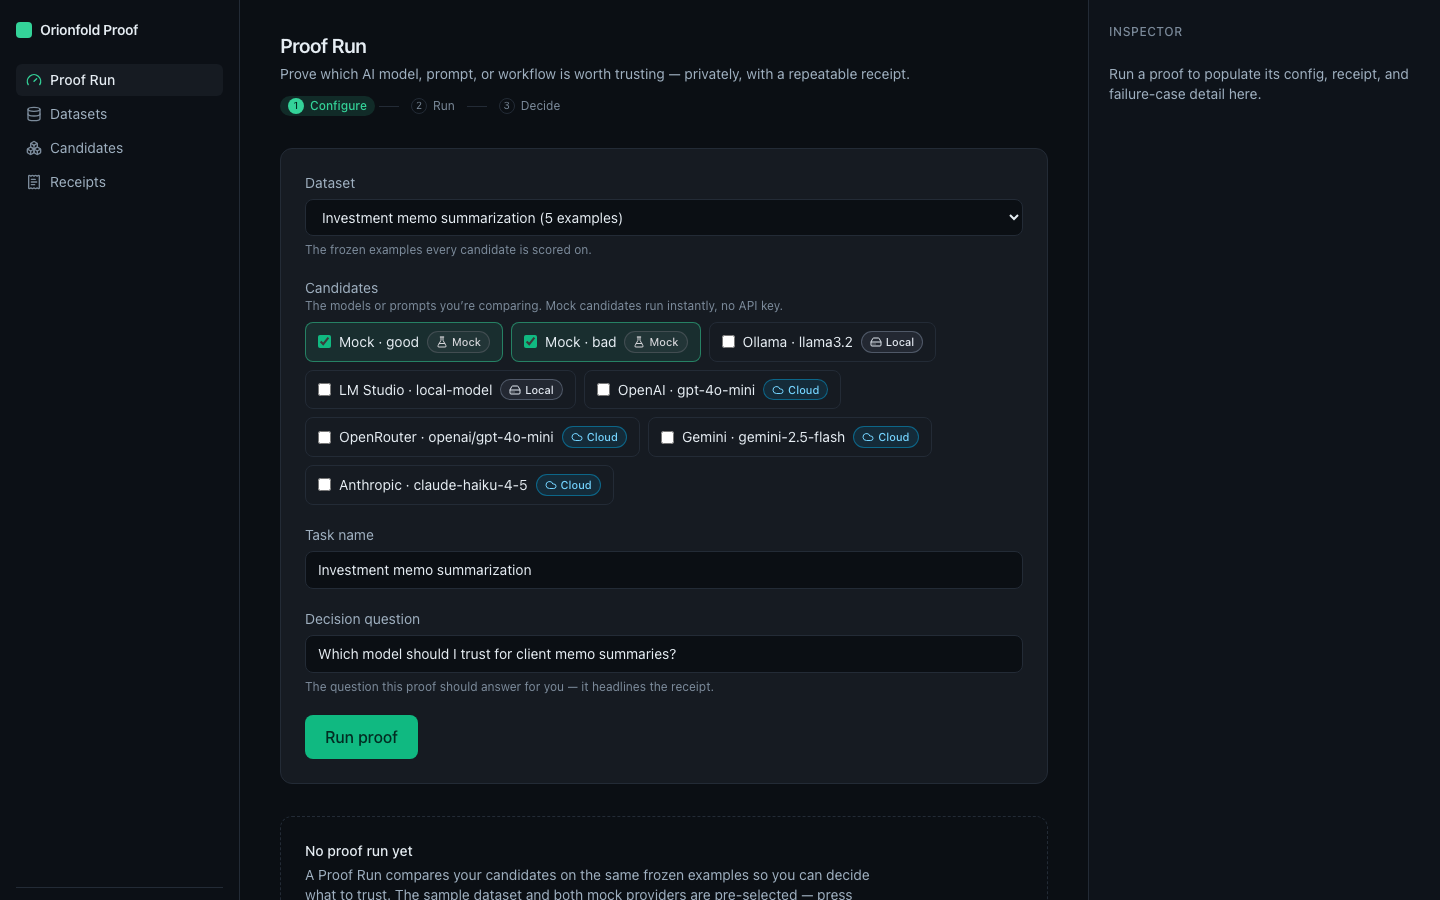
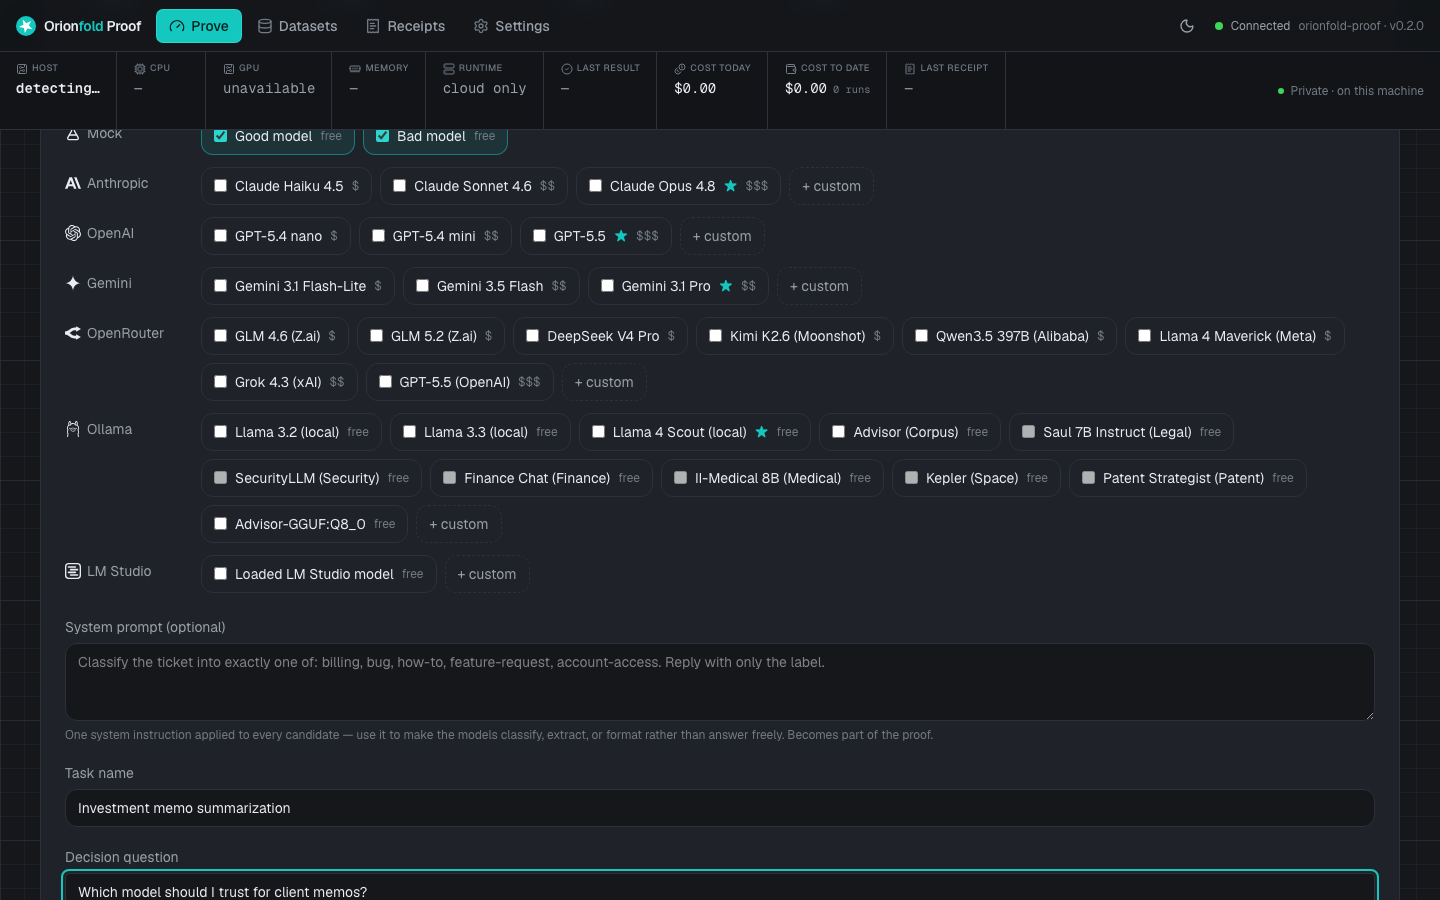
docs: refresh screenshots + README hero for the 0.2.0 Arena cockpit
The README hero (the live PyPI long-description image) and the whole
samples/screenshots/ set predated the Arena-shape redesign — they showed the
old three-column layout that 0.2.0 replaced. Recaptured the full set against
the 0.2.0 embedded build (top app bar + always-on telemetry rail + bento
Receipts + tabbed L3 detail) via a new CAPTURE=1-gated Playwright spec, and
repointed the README hero at the new Prove-result still with fresh alt text.
Also corrects the README's stale "schema version (currently v3)" → v12.

New set: rail-prove-result (hero) · cockpit-arena-populated (full page) ·
stream-configure · rail-datasets · rail-receipts · receipt-detail-l3 ·
rail-settings. Removed the superseded design-system-*/rail-candidates/
real-provider/stream-decide/stream-progress captures. Rewrote the screenshot
index. The capture spec skips in the default e2e run (17 passed, 1 skipped).

PyPI's long-description re-renders on the next upload, so this rides the next
release; the GitHub README shows the new hero immediately. uv.lock carries the
0.2.0 bump.

diff --git a/e2e/playwright/capture-screenshots.spec.ts b/e2e/playwright/capture-screenshots.spec.ts
@@ -1,0 +1,67 @@
+/**
+ * Publish-grade screenshot capture for samples/screenshots/ (the README hero + the rail set).
+ *
+ * NOT a test — a deterministic capture run against the embedded build, gated behind CAPTURE=1 so
+ * it never runs in the normal e2e suite. Reproduces the keyless Sandbox flow (investment-memo +
+ * the two mock candidates) the README has always shown, but on the 0.2.0 Arena layout (top app bar
+ * + always-on telemetry rail + bento Receipts). Dark theme, 1440-wide viewport to match the
+ * existing assets (hero = full-page, the rest = 1440x900 viewport).
+ *
+ *   CAPTURE=1 pnpm playwright test capture-screenshots.spec.ts --project=chromium
+ */
+import { test } from "@playwright/test";
+
+const OUT = "../samples/screenshots";
+const shot = process.env.CAPTURE === "1";
+
+test.skip(!shot, "capture-only; run with CAPTURE=1");
+test.use({ viewport: { width: 1440, height: 900 }, colorScheme: "dark" });
+
+test("capture: Arena cockpit screenshot set (0.2.0)", async ({ page }) => {
+  await page.request.put("/api/settings", { data: { sandbox_enabled: true } });
+  await page.goto("/");
+  await page.getByRole("heading", { name: "Orionfold Proof" }).waitFor();
+
+  // ── Prove: configure (the empty setup canvas + rail) ──────────────────────────────────────
+  const dataset = page.getByLabel("Dataset");
+  await dataset.waitFor({ state: "visible", timeout: 30_000 });
+  await dataset.selectOption("investment-memo-summarization");
+  await page.getByLabel("Decision question").fill("Which model should I trust for client memos?");
+  await page.waitForTimeout(400);
+  await page.screenshot({ path: `${OUT}/stream-configure.png` });
+
+  // ── Prove: run → populated results (the hero) ─────────────────────────────────────────────
+  await page.getByRole("button", { name: /Run proof/ }).click();
+  await page.getByRole("region", { name: "Leaderboard" }).waitFor({ timeout: 30_000 });
+  await page.waitForTimeout(800); // let the scatter + ledger settle
+  // Hero = full-page so the verdict band + leaderboard + cost-vs-quality all land in one image.
+  await page.screenshot({ path: `${OUT}/cockpit-arena-populated.png`, fullPage: true });
+  // Viewport-height variant: app bar + rail + verdict above the fold (the rail "result" cells live).
+  await page.evaluate(() => window.scrollTo(0, 0));
+  await page.waitForTimeout(200);
+  await page.screenshot({ path: `${OUT}/rail-prove-result.png` });
+
+  // ── Datasets screen (rail + bento) ────────────────────────────────────────────────────────
+  await page.getByRole("button", { name: "Datasets" }).click();
+  await page.waitForTimeout(500);
+  await page.screenshot({ path: `${OUT}/rail-datasets.png` });
+
+  // ── Receipts screen (bento masthead + Runs table) ─────────────────────────────────────────
+  await page.getByRole("button", { name: "Receipts" }).click();
+  await page.waitForTimeout(500);
+  await page.screenshot({ path: `${OUT}/rail-receipts.png` });
+
+  // ── L3 receipt detail (the tabbed artifact) ───────────────────────────────────────────────
+  const openRow = page.getByRole("button", { name: /^Open Which model should I trust/ }).first();
+  if (await openRow.count()) {
+    await openRow.click();
+    await page.getByTitle("Proof Receipt preview").waitFor({ timeout: 15_000 });
+    await page.waitForTimeout(500);
+    await page.screenshot({ path: `${OUT}/receipt-detail-l3.png` });
+  }
+
+  // ── Settings bento ────────────────────────────────────────────────────────────────────────
+  await page.getByRole("button", { name: "Settings" }).click();
+  await page.waitForTimeout(500);
+  await page.screenshot({ path: `${OUT}/rail-settings.png` });
+});

diff --git a/samples/screenshots/README.md b/samples/screenshots/README.md
@@ -1,21 +1,28 @@
 # Sample screenshots
 
-- **`design-system-empty.png`** — the three-pane cockpit at rest (empty state): quiet left
-  rail (Proof Run active; Datasets/Candidates/Receipts marked _soon_), the main workspace with
-  the setup card and a guided "No proof run yet" empty state, and the right inspector awaiting a
-  run. Keyless mock pair pre-selected.
-- **`design-system-populated.png`** — after a keyless mock run: the decision → recommended
-  winner band, the leaderboard, and the failure-case list in the main workspace, with run
-  config, the Proof Receipt exports, and config hash in the right inspector.
-- **`design-system-inspector.png`** — the right inspector with a failure case selected
-  (input / expected / output detail). No key material appears anywhere.
-- **`real-provider-leaderboard.png`** — the cockpit after a real proof run comparing the two
-  deterministic mocks against a live **OpenRouter** cloud candidate
-  (`openai/gpt-4o-mini`). Shows the full loop: candidate selection (local + cloud), the
-  leaderboard (quality, latency, estimated cost, privacy, failures, recommendation), failure
-  cases, and the Proof Receipt export controls. Captured against the embedded build via
-  `orionfold up`. No key material appears anywhere in the run or receipt.
+Captured against the embedded build on the 0.2.0 **Arena-shape cockpit** — a compact top app bar
+(Prove · Datasets · Receipts · Settings), a full-width always-on **telemetry rail** (host CPU / GPU /
+memory · runtime · last result · cost · last receipt), and a full-width canvas. Dark theme, keyless
+Sandbox run (the bundled investment-memo demo on the two deterministic mock candidates). No key
+material appears anywhere in any run or receipt.
 
-Note: a real model legitimately scores `pass=0` here — the bundled rubric is tuned for the
-mock demo (similarity ≥ 0.8). The screenshot proves the **integration and the receipt**, not
-a given model's rubric score. See [`../../docs/demo-script.md`](../../docs/demo-script.md).
+- **`rail-prove-result.png`** — the README hero: the Prove canvas after a keyless mock run, with the
+  telemetry rail showing a live `5/5` last result, the dataset + decision-recipe panel, and the
+  candidate picker. The whole instrument in one frame.
+- **`cockpit-arena-populated.png`** — the full Prove page (long capture): the verdict band
+  (recommended winner), the leaderboard (Mock · good vs Mock · bad), the cost-vs-quality scatter,
+  and the run-cost ledger, all on one scrolling canvas.
+- **`stream-configure.png`** — the Prove setup before a run: dataset selected, decision question
+  filled, the five scoring-method cards.
+- **`rail-datasets.png`** — the Datasets screen (coverage strip, governance bench badge, corpus).
+- **`rail-receipts.png`** — the Receipts screen: the bento masthead (Latest proof · Cost today ·
+  Cost to date · Library) over the `[ Runs | Track Record ]` toggle and the compact Runs table.
+- **`receipt-detail-l3.png`** — the L3 receipt detail (tabbed): the v12 Proof Receipt artifact —
+  verdict hero, metric spine, the pass-rate + cost-vs-quality figures — with the Receipt / Run config
+  / Leaderboard / Cost / Failure cases tabs and the Markdown / HTML / JSON export links.
+- **`rail-settings.png`** — the Settings bento (Appearance · Runtime · scoring thresholds · data
+  management), including the GPU-telemetry toggle with its ready/needs-setup badge.
+
+Note: mock runs are deterministic and keyless — they prove the **loop and the receipt**, not a real
+model's score. See [`../../docs/demo-script.md`](../../docs/demo-script.md). Regenerate after a UI
+change with `CAPTURE=1 pnpm --dir web exec playwright test capture-screenshots.spec.ts`.

diff --git a/README.md b/README.md
@@ -39,7 +39,7 @@ Reproduce it yourself: `pip install orionfold-proof`, then unlock the Advisor pa
 license from [orionfold.com/proof](https://orionfold.com/proof/) and run the bundled
 governance bench. The receipt is the proof.
 
-![The Orionfold Proof cockpit: decision band, leaderboard, failure cases, and receipt exports on one screen](https://raw.githubusercontent.com/orionfold/orionfold-proof/main/samples/screenshots/design-system-populated.png)
+![The Orionfold Proof cockpit (Arena layout): a compact top app bar, an always-on telemetry rail showing host CPU / GPU / memory and the last result, and the Prove canvas with the dataset, decision recipes, and candidate picker on one screen](https://raw.githubusercontent.com/orionfold/orionfold-proof/main/samples/screenshots/rail-prove-result.png)
 
 ---
 
@@ -62,7 +62,7 @@ your machine, in one command.
 **Keyless out of the box:** pick the bundled sample dataset, run two deterministic mock
 candidates, see the leaderboard, inspect failure cases (including a surfaced provider
 error), and export a Proof Receipt in Markdown, HTML, and JSON — each stamped with a config
-hash, timestamp, and schema version (currently v3).
+hash, timestamp, and schema version (currently v12).
 
 **Real providers when you configure them:** the same loop runs against local and cloud
 models — Ollama and LM Studio (local), plus OpenAI, OpenRouter, Google Gemini, and